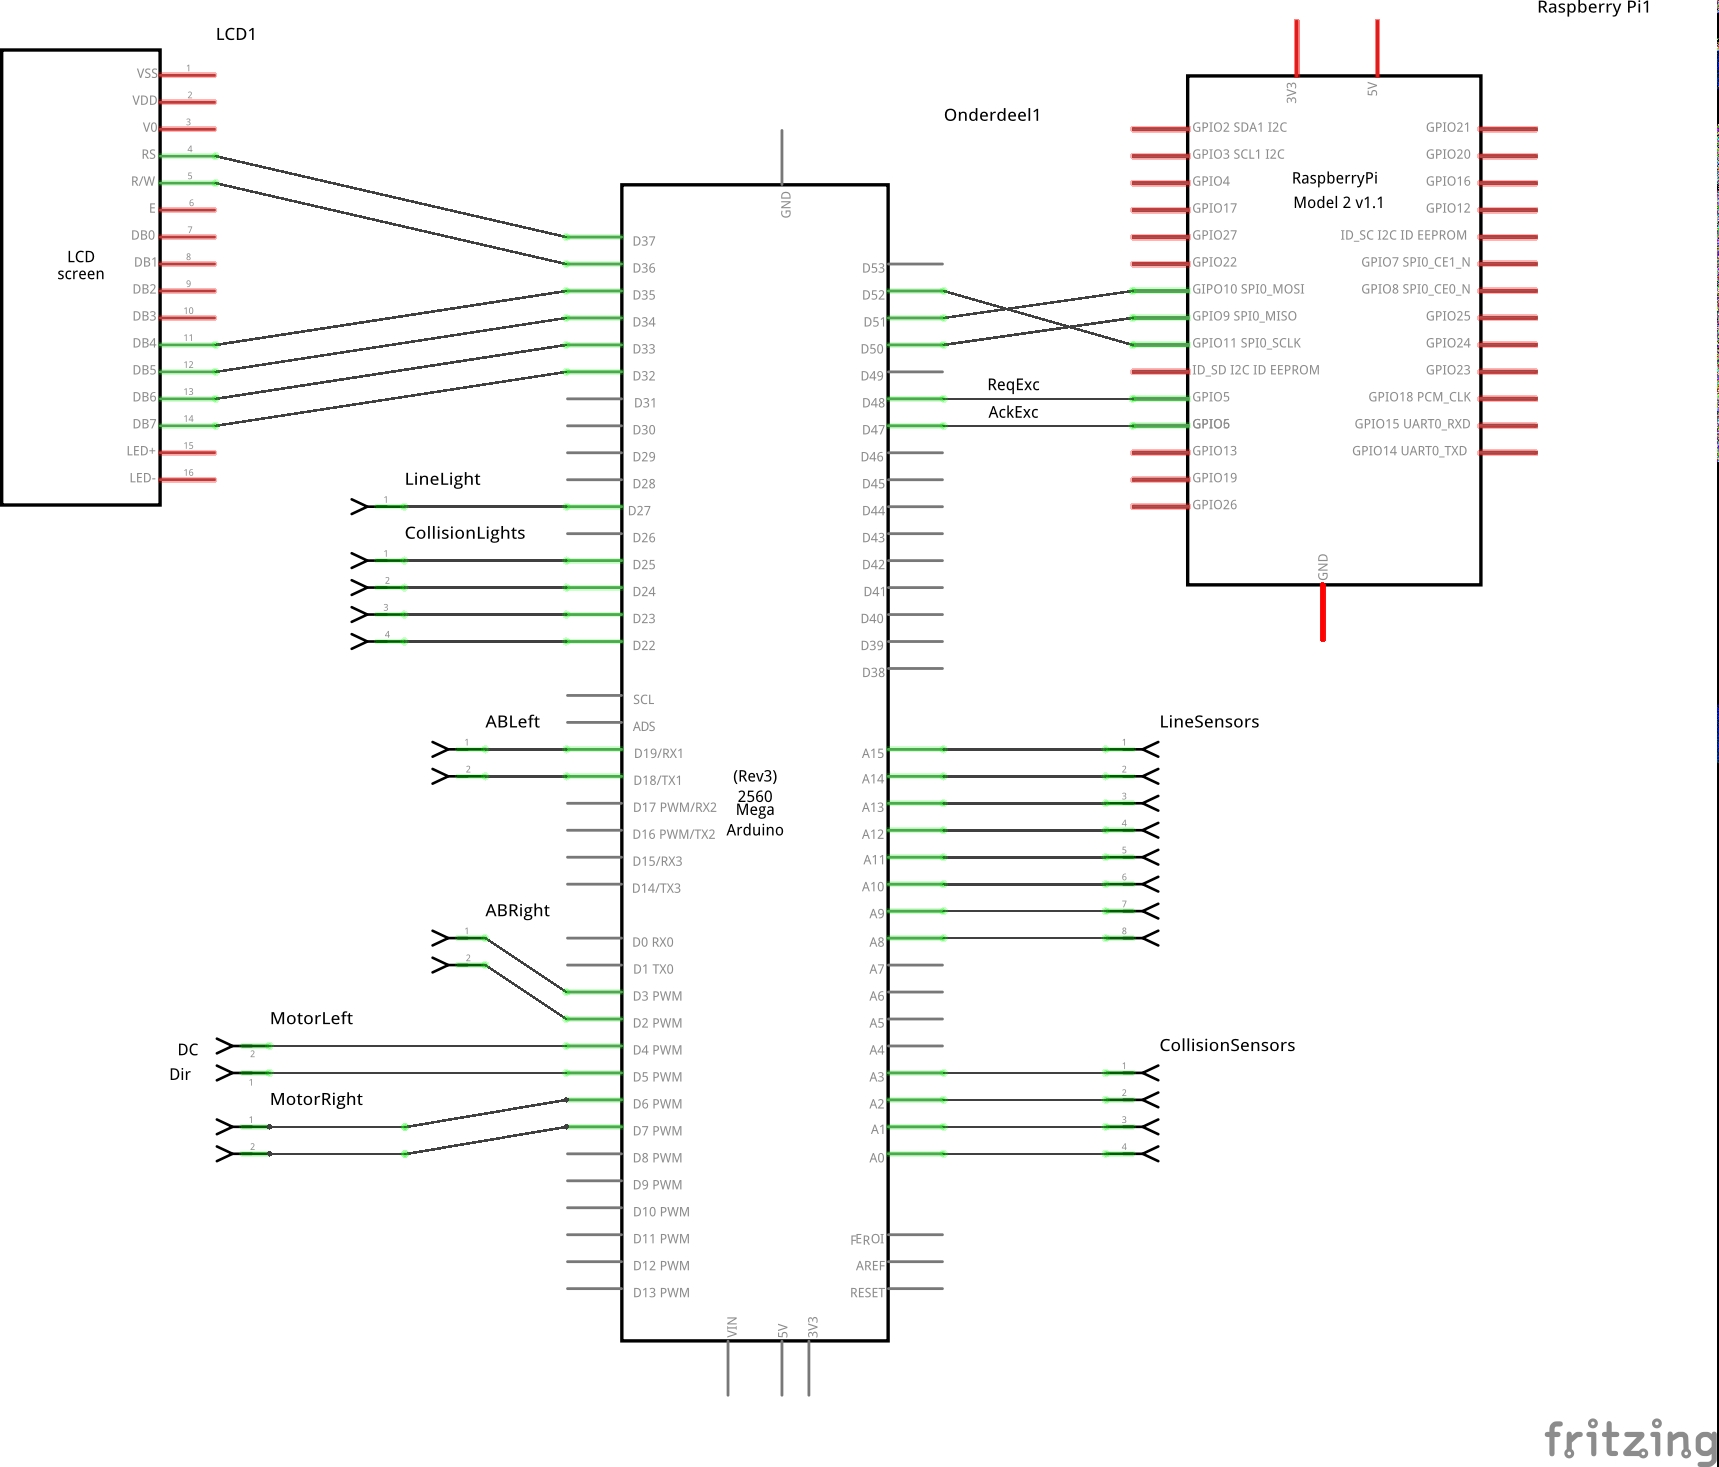
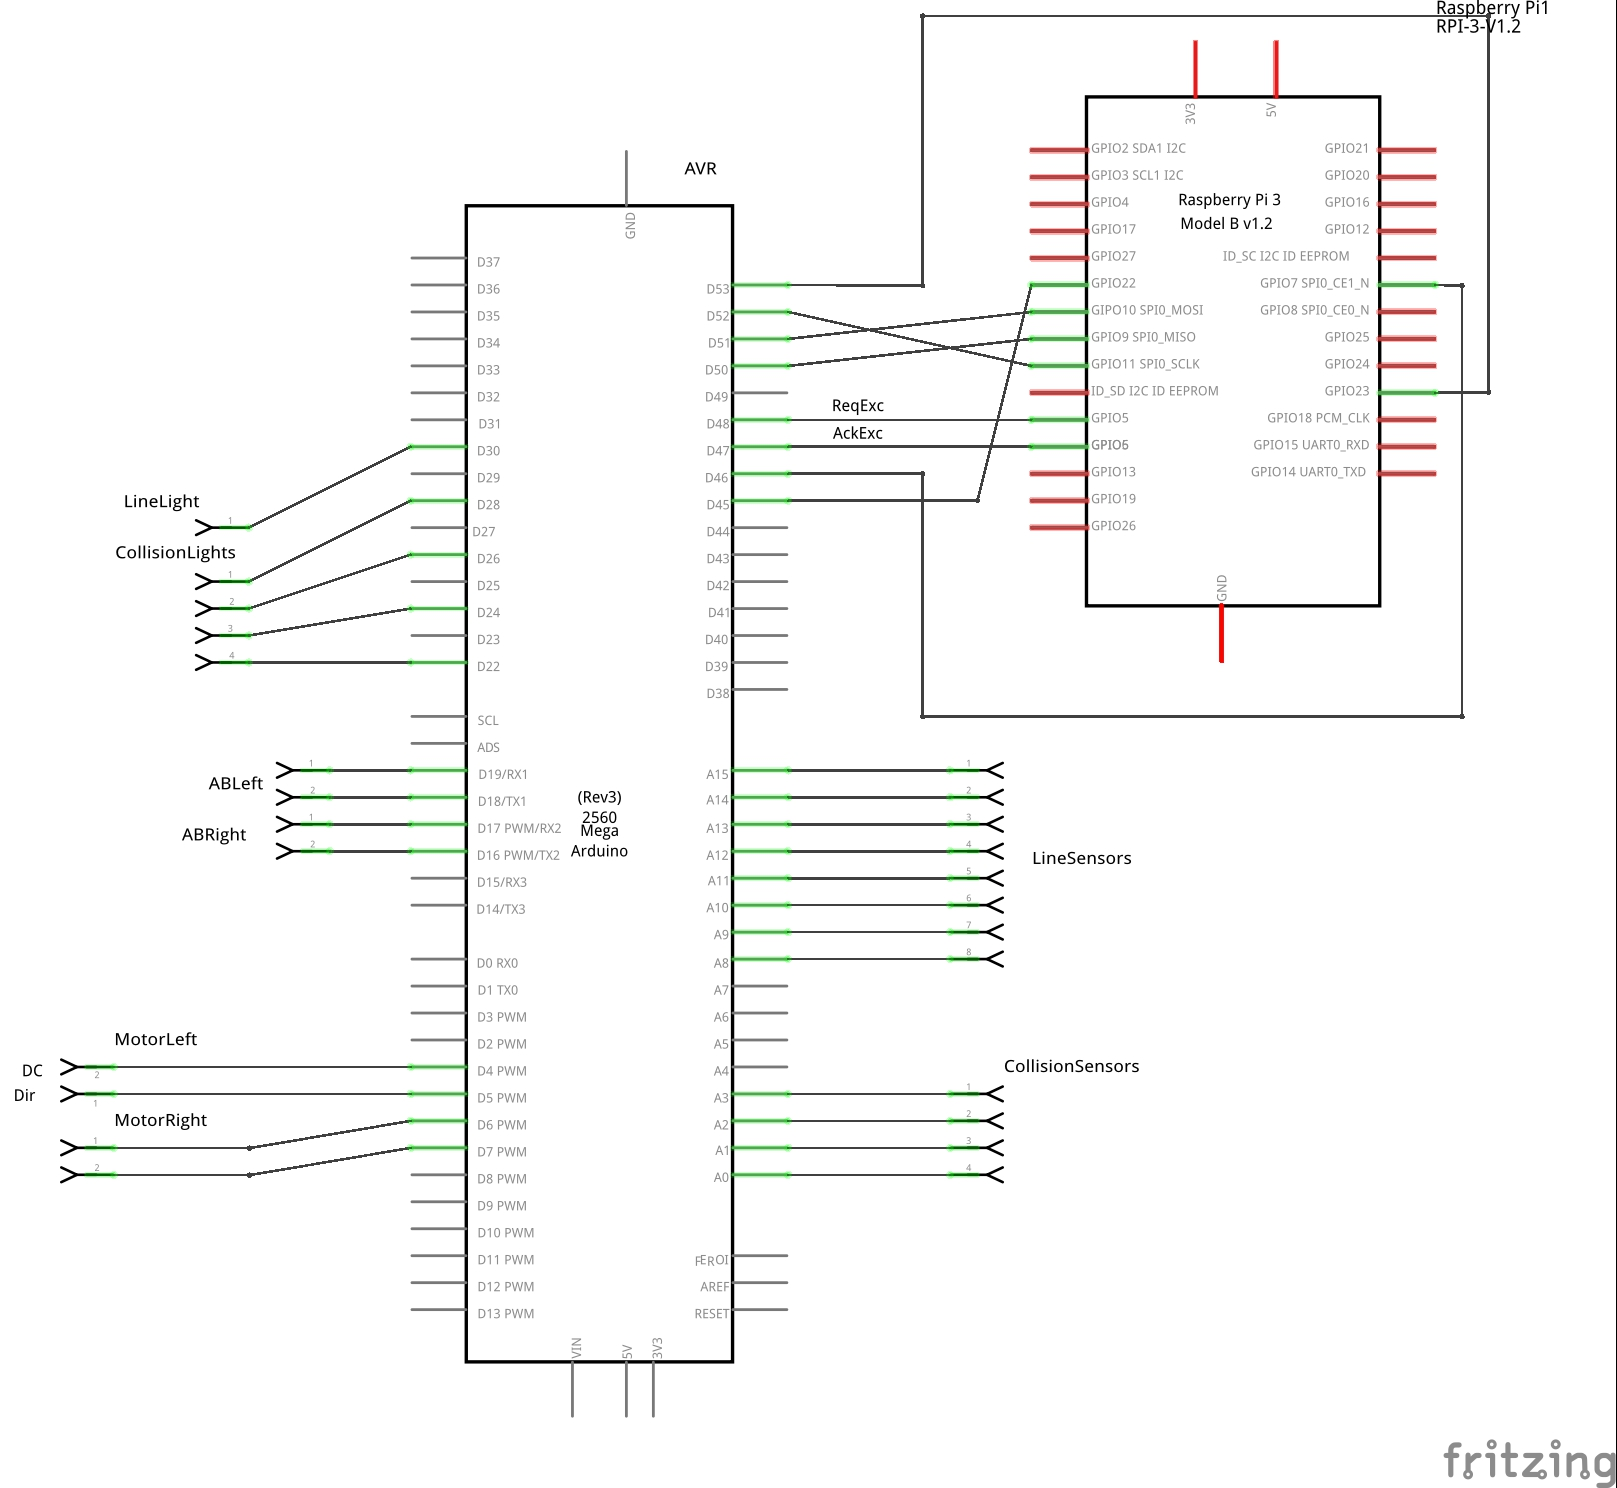
Fix: small HSI updates.

diff --git a/Arduino/Rover/HSI.h b/Arduino/Rover/HSI.h
@@ -5,11 +5,16 @@
 // HSI
 ////////////////////////////////////////////////////
 
-#define PIN_PWM_LEFT  (4)
-#define PIN_PWM_RIGHT (2)
+#define PIN_PWM_RIGHT (6)
+#define PIN_DIR_RIGHT (7)
 
+#define PIN_PWM_LEFT  (4)
 #define PIN_DIR_LEFT  (5)
-#define PIN_DIR_RIGHT (3)
+
+#define PIN_ENC_LEFT_A   (18) 
+#define PIN_ENC_LEFT_B   (19)
+#define PIN_ENC_RIGHT_A  (16)
+#define PIN_ENC_RIGHT_B  (17)
 
 #define PIN_LINE_NE (A8)
 #define PIN_LINE_EN (A9)
@@ -20,7 +25,7 @@
 #define PIN_LINE_WN (A14)
 #define PIN_LINE_NW (A15)
 
-#define PIN_LINE_LIGHT (27) // TODO: select pin for LINE_LIGHT
+#define PIN_LINE_LIGHT (30) 
 
 #define PIN_COL_NE (A0) // TODO: check A12-A15 availability
 #define PIN_COL_SE (A1)
@@ -28,15 +33,11 @@
 #define PIN_COL_NW (A3)
 
 #define PIN_COL_LIGHT_NE (22)
-#define PIN_COL_LIGHT_SE (23)
-#define PIN_COL_LIGHT_SW (24)
-#define PIN_COL_LIGHT_NW (25)
+#define PIN_COL_LIGHT_SE (24)
+#define PIN_COL_LIGHT_SW (26)
+#define PIN_COL_LIGHT_NW (28)
 
 
-#define PIN_ENC_LEFT_A   (18) 
-#define PIN_ENC_LEFT_B   (19)
-#define PIN_ENC_RIGHT_A  (2)
-#define PIN_ENC_RIGHT_B  (3)
 
 #define PIN_REQEXC    (48) // Input, high whenever PI requests transfer of frame
 #define PIN_ACKEXC    (47) // Output, high as soon as MEGA ready for frame transfer
